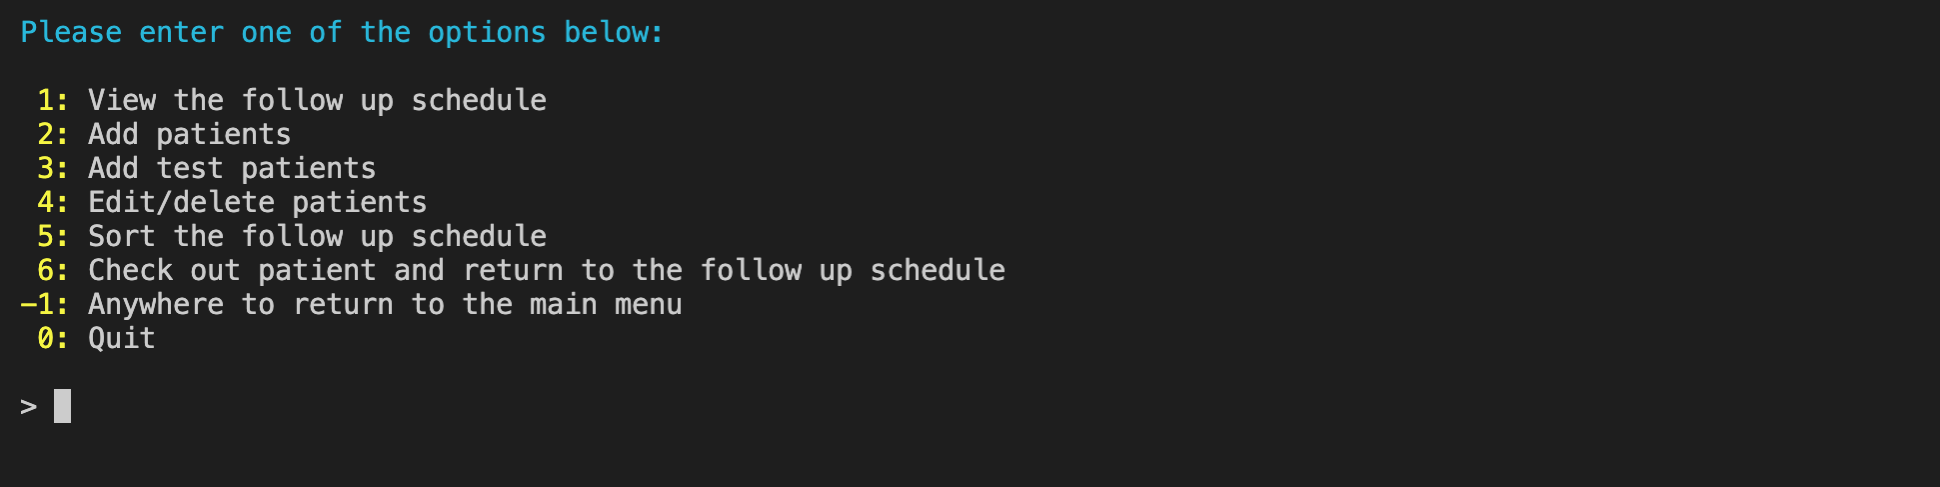
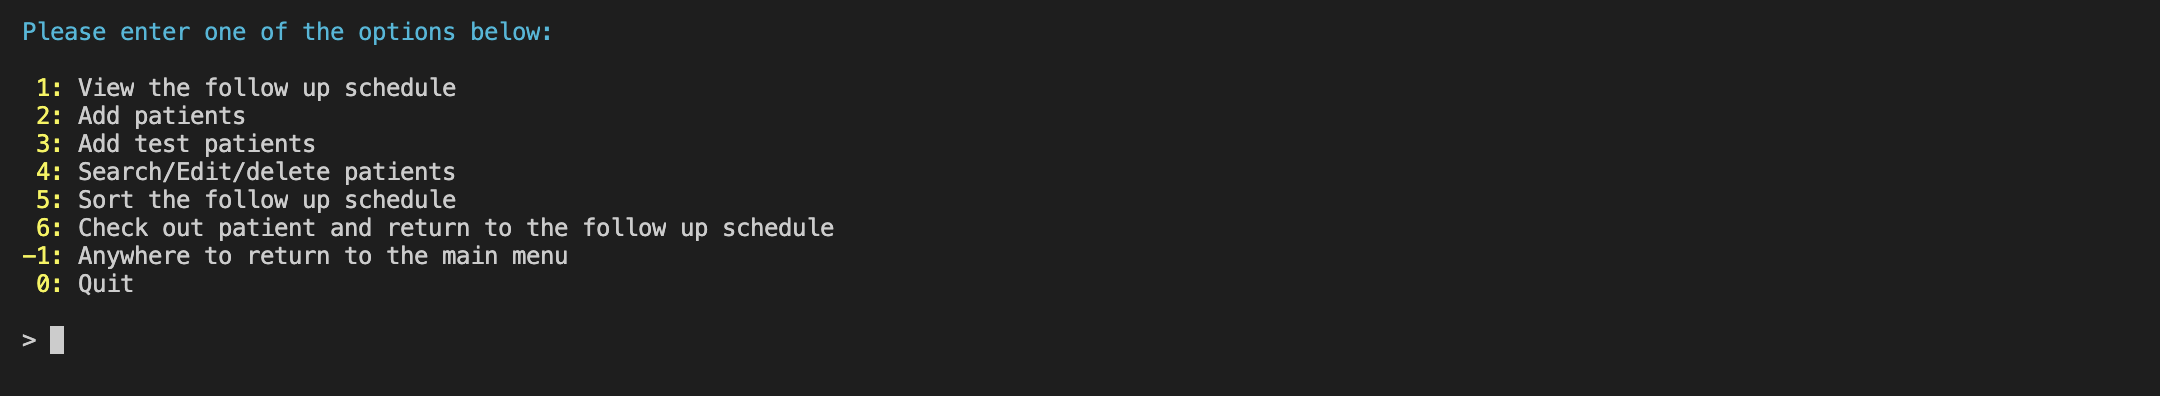
README completed

Changed region(s): [[0.0, 0.1818, 0.5258, 0.7576], [0.0, 0.0303, 0.3402, 0.1212], [0.0, 0.7879, 0.0619, 0.9091]]

diff --git a/main.py b/main.py
@@ -710,7 +710,7 @@ def main_screen():
 \033[93m 1:\033[0m View the follow up schedule\n\
 \033[93m 2:\033[0m Add patients \n\
 \033[93m 3:\033[0m Add test patients\n\
-\033[93m 4:\033[0m Edit/delete patients\n\
+\033[93m 4:\033[0m Search/Edit/delete patients\n\
 \033[93m 5:\033[0m Sort the follow up schedule\n\
 \033[93m 6:\033[0m Check out patient and return to the follow up schedule\n\
 \033[93m-1:\033[0m Anywhere to return to the main menu \n\

diff --git a/README.md b/README.md
@@ -11,19 +11,28 @@ This application is designed for managing patient follow-up appointments.
 ## Table of Contents
 
 - [Table of Contents](#table-of-contents)
-- [About <a name = "about"></a>](#about-)
-- [Getting Started <a name = "getting_started"></a>](#getting-started-)
+- [About](#about)
+- [Getting Started](#getting-started)
   - [Prerequisites](#prerequisites)
   - [Running the script](#running-the-script)
-- [Application instructions <a name="usage"></a>](#application-instructions-)
-- [Built Using <a name = "built_using"></a>](#built-using-)
-- [Author <a name = "authors"></a>](#author-)
+- [Application instructions](#application-instructions)
+  - [Option 1: View the follow up schedule.](#option-1-view-the-follow-up-schedule)
+  - [Option 2: Add patients.](#option-2-add-patients)
+  - [Option 3: Add test patients.](#option-3-add-test-patients)
+  - [Option 4: Search/Edit/delete patients.](#option-4-searcheditdelete-patients)
+  - [Option 5: Sort.](#option-5-sort)
+  - [Option 6: Check out and return to the follow up schedule.](#option-6-check-out-and-return-to-the-follow-up-schedule)
+  - [Option 7: Return to the main menu anywhere in the program.](#option-7-return-to-the-main-menu-anywhere-in-the-program)
+  - [Option 8: Quit the program from the main menu.](#option-8-quit-the-program-from-the-main-menu)
+- [Built Using](#built-using)
+- [Author](#author)
+- [License MIT](#license-mit)
 
-## About <a name = "about"></a>
+## About
 
 This application will help dentists put their patients on a regular follow-up schedule according to each patient’s need. For example, some patients may need regular six months follow-ups to be scheduled, others may need shorter or longer follow-ups. On the other hand, some patients may prefer to call and schedule as needed, so won’t be placed on a regular follow-up schedule. Once a patient is placed on the follow-up schedule, the application will calculate the next follow-up date according to the follow-up frequency chosen and the last visit date. Each time the patient attends their follow-up visit, they can be checked out and returned to the follow-up schedule with the next follow-up date being calculated automatically.
 
-## Getting Started <a name = "getting_started"></a>
+## Getting Started
 
 The following instructions will guide you on how to run this python script.
 
@@ -72,19 +81,80 @@ Main screen will look like this:
 <!-- ![main screen](images/main_screen.png)
 {: height ="36px" width ="36px"} -->
 
-<img src="images/main_screen.png" width="1000"/>
+<img src="images/main_screen.png" width="1000">
 
+## Application instructions
 
+This program has a user-friendly CLI interface as seen above. To navigate through the application, you just need to type in the selection number, then hit enter key. The main screen is shown above. You have different options to select from.
 
-## Application instructions <a name="usage"></a>
+### Option 1: View the follow up schedule.
+  
+  The menu options will reappear again below the schedule to help you navigate to the other application sections.
+  <img src="images/view.png" width="1000">
 
-This program has a user-friendly CLI interface. To navigate through the application, you just need to type in the selection number, then hit enter key. The main screen is shown above. You have different options
+### Option 2: Add patients.
+  
+  Each field will appear one at a time to allow you to type in the information. The first letter of each part of the name will be capitalized automatically when the information is saved, so you don't have to worry about that. You have to hit enter after each entry is complete. 
+  <img src="images/add_patient_firstname.png" width="1000">
+  The complete information entry will look like that. Then you have to answer "y" and hit enter again to save.
+  <img src="images/add_patient.png" width="1000">
+  A a verification will be received after the information is saved successfully.
+  <img src="images/add_patient_confirmed.png" width="1000">
+  
+### Option 3: Add test patients.
+  
+  This option is designed for trying the application by the user and testing purposes. It adds six fake patients to the followup schedule.
+  <img src="images/add_test_patients_success.png" width="1000">
 
-## Built Using <a name = "built_using"></a>
+### Option 4: Search/Edit/delete patients.
+
+  This option will allow you to search for a patient using first and/or last name using partial or complete keywords.
+  <img src="images/search.png" width="1000"> 
+  Here is an example of the search method using part of the first and last names. You have to hit enter to star the search process:
+  <img src="images/search_keywords.png" width="1000"> 
+  This screen shows the result:
+  <img src="images/search_found.png" width="1000"> 
+  After the search is complete, you can go to the edit or delete mode if needed.
+  <img src="images/edit_mode.png" width="1000">
+  If you select the edit mode, you can then enter the file number for the record you want to edit then hit enter. The file number should be from the file numbers appeared in the search step. In the following example, there is only one file number to select from:
+  <img src="images/edit_select.png" width="1000">
+  Then you can edit one field at a time.
+  <img src="images/edit_start.png" width="1000">
+  The same process applies for the delete mode. You do the search first then enter the delete mode:
+  <img src="images/delete_mode.png" width="1000">
+  Then you can select one or more file numbers separated by commas for the records you want to delete:
+  <img src="images/delete_select.png" width="1000">
+
+### Option 5: Sort.
+  This option allow you to sort the follow up schedule according to different keys (columns). You can use the letter "a" or "d" after the column number to specify the sort order (ascending/descending):
+  <img src="images/sort.png" width="1000">
+  The most useful example is sorting by the next follow up visit date with/without priority as shown here:
+  <img src="images/sort_example.png" width="1000">
+  Here is the result:
+  <img src="images/sorted.png" width="1000">
+
+### Option 6: Check out and return to the follow up schedule.
+  After the patient attends his appointment, it is very helpful to check the patient out and return to the follow up schedule. This can be done by searching the patient, then typing the file number and hitting enter.
+  <img src="images/checkout_and_follow.png" width="1000">
+  Here it shows how the next follow up date is calculated and reflected on the follow up schedule automatically:
+  <img src="images/checkedout_and_followed.png" width="1000">
+
+### Option 7: Return to the main menu anywhere in the program.
+  To return to the main screen, you just need to type -1 followed by enter anywhere in the application.
+  <img src="images/main_screen.png" width="1000">
+
+### Option 8: Quit the program from the main menu.
+  To quit the application completely, you just need to return to the main menu then type 0 followed by enter key.
+  <img src="images/main_screen.png" width="1000">
+   
+## Built Using
 
 - [Python 3.9](https://www.python.org) - Interpreted programming language.
 
-## Author <a name = "authors"></a>
+## Author
 
 - [@drmohammadatieh](https://github.com/kylelobo) - Idea & Implementation.
+  
+## License [MIT](https://github.com/drmohammadatieh/Follow-Up-Schedule/blob/master/LICENSE)
+
 
